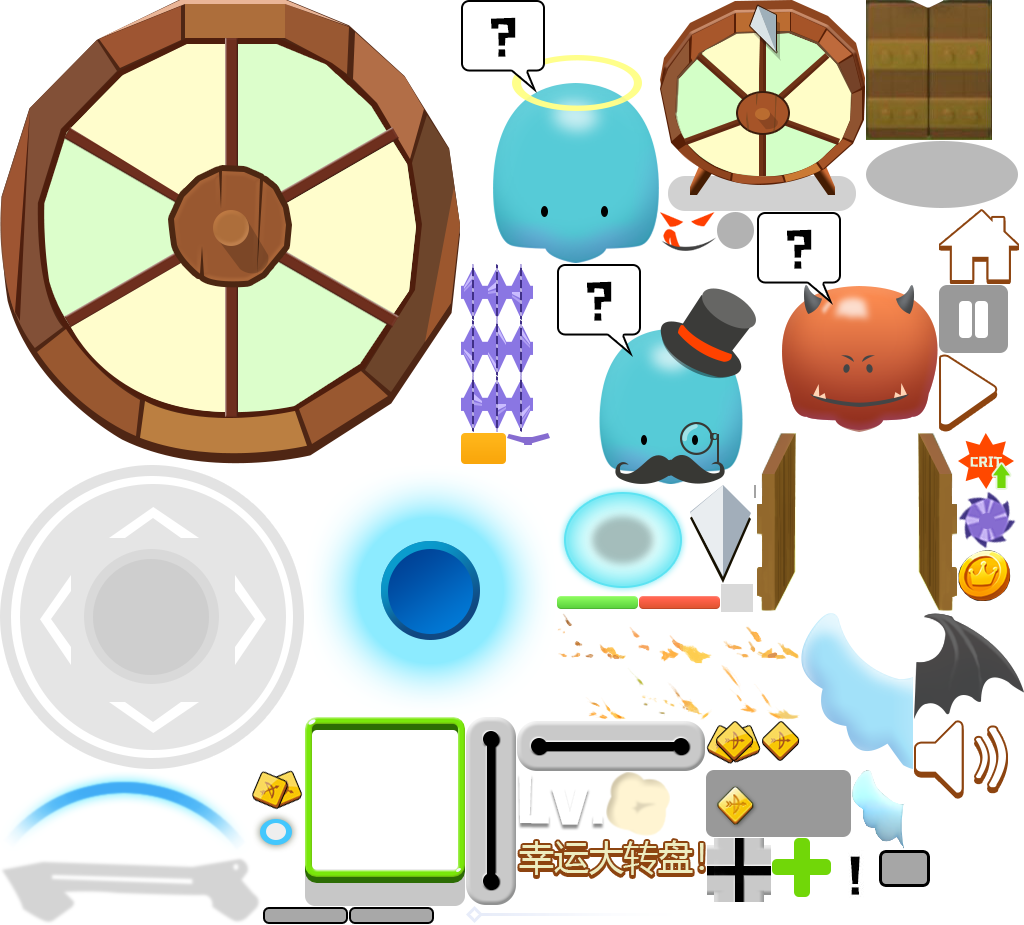
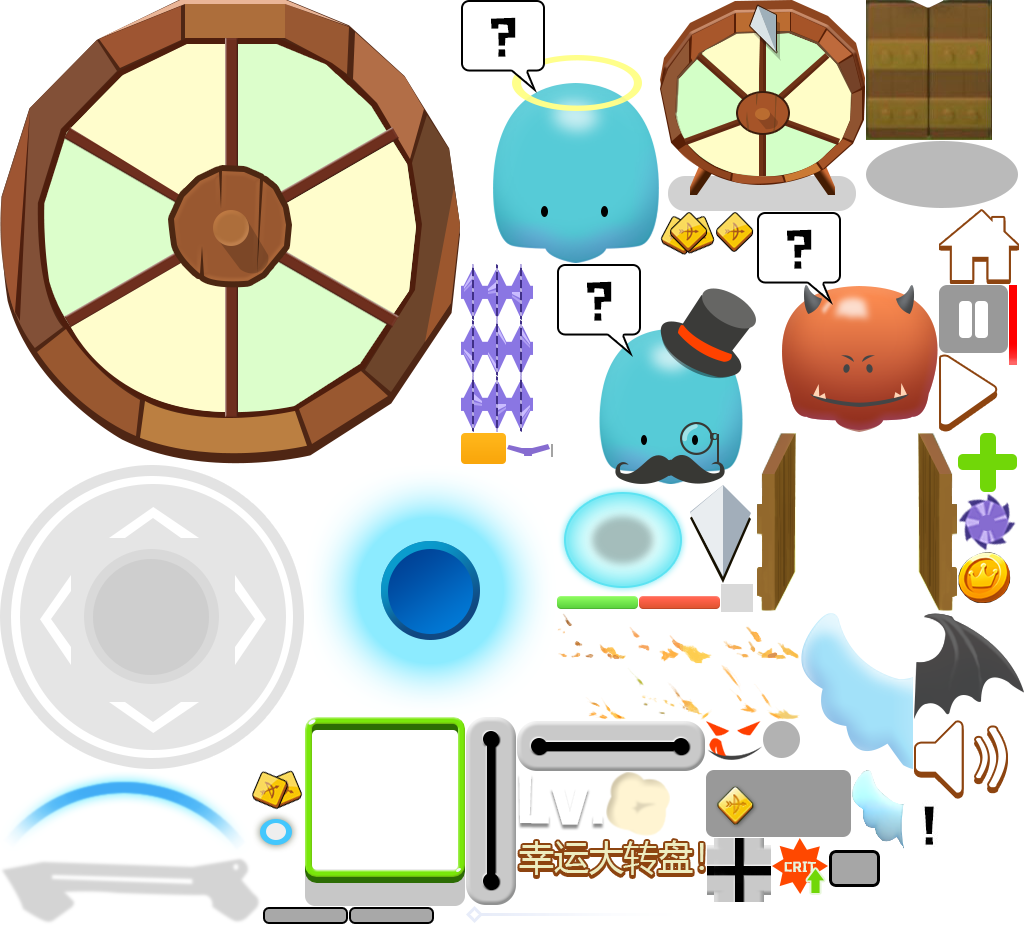
老总要的红条

diff --git a/Game3D01/src/game/move/ArrowGameMove0.ts b/Game3D01/src/game/move/ArrowGameMove0.ts
@@ -23,7 +23,7 @@ export default class ArrowGameMove0 extends GameMove {
     private vv = new MaoLineData(0, 0, 0, 1);
 
     /**反弹次数 */
-    private fcount: number = 0;
+    private fcount: number = 2;
 
     /**反弹起点 */
     private fv: MaoLineData = null;
@@ -71,7 +71,7 @@ export default class ArrowGameMove0 extends GameMove {
         if (enemy) {
             enemy.linkPro_.event(Game.Event_Hit, pro);
             if (!isChuantou)  {
-                pro.event(Game.Event_Hit, enemy.linkPro_);
+                // pro.event(Game.Event_Hit, enemy.linkPro_);
                 pro.die();
                 return false;
             }
@@ -87,7 +87,7 @@ export default class ArrowGameMove0 extends GameMove {
                 if (rs) {
                     enemy = rs[2];
                     enemy.linkPro_.event(Game.Event_Hit, pro);
-                    pro.event(Game.Event_Hit, enemy.linkPro_);
+                    // pro.event(Game.Event_Hit, enemy.linkPro_);
                     pro.die();
                     return false;
                 }
@@ -101,7 +101,7 @@ export default class ArrowGameMove0 extends GameMove {
                 if (rs) {
                     enemy = rs[2];
                     enemy.linkPro_.event(Game.Event_Hit, pro);
-                    pro.event(Game.Event_Hit, enemy.linkPro_);
+                    // pro.event(Game.Event_Hit, enemy.linkPro_);
                     pro.die();
                     return false;
                 }
@@ -150,72 +150,20 @@ export default class ArrowGameMove0 extends GameMove {
                 }
 
             }
+            // if (this.fcount <= 0) {
+            //     pro.die();
+            //     return false;
+            // } else {
+            //     this.fcount--;
+            //     this.fv = l;
+            //     return true;
+            // }
+            this.fcount--;
+            this.fv = l;
             if (this.fcount <= 0) {
                 pro.die();
                 return false;
-            } else {
-                this.fcount--;
-                this.fv = l;
-                return true;
             }
-        }
-        pro.setXY2D(pro.pos2.x + vx, pro.pos2.z + vz);
-
-        return true;
-    }
-
-    public move2d0(n: number, pro: GamePro, speed: number, hitStop: boolean): boolean {
-        //pro.rotation(n);
-        pro.setSpeed(speed);
-        if (pro.speed <= 0) return;
-
-        var vx: number = pro.speed * Math.cos(n);
-        var vz: number = pro.speed * Math.sin(n);
-        var x0: number = pro.hbox.cx;
-        var y0: number = pro.hbox.cy;
-        this.future.setVV(x0, y0, vx, vz);
-
-        var ebh: GameHitBox;
-        if (pro.gamedata.proType == GameProType.HeroArrow) {
-            ebh = Game.map0.chechHit_arr(this.future, Game.map0.Eharr);
-        } else {
-            ebh = Game.map0.chechHit_arr(this.future, Game.map0.Hharr);
-        }
-
-        if (ebh) {
-            pro.setXY2D(pro.pos2.x + vx, pro.pos2.z + vz);
-            pro.setSpeed(0);
-            if (ebh.linkPro_) {
-                ebh.linkPro_.event(Game.Event_Hit, pro);
-                pro.event(Game.Event_Hit, ebh.linkPro_);
-            }
-            return false;
-        }
-
-
-        var hits = Game.map0.Aharr;
-        ebh = Game.map0.chechHit_arr(this.future, hits);
-        if (ebh) {
-            if (pro.gamedata.bounce <= 0) {
-                pro.setXY2D(pro.pos2.x + vx, pro.pos2.z + vz);
-                pro.setSpeed(0);
-                pro.die();
-                //console.log("碰住地面了");
-                return false;
-            }
-            pro.gamedata.bounce--;
-            if (!Game.map0.chechHit_arr(this.future.setVV(x0, y0, -1 * vx, vz), hits)) {
-                vx = -1 * vx;
-                //this.fcount++;
-            } else if (!Game.map0.chechHit_arr(this.future.setVV(x0, y0, vx, -1 * vz), hits)) {
-                vz = -1 * vz;
-                //this.fcount++;
-            } else {
-                return false;
-            }
-            //this.facen2d_ = (2*Math.PI - n);
-            n = 2 * Math.PI - Math.atan2(vz, vx);
-            pro.rotation(n);
         }
         pro.setXY2D(pro.pos2.x + vx, pro.pos2.z + vz);
 

diff --git a/Game3D01/src/game/ai/BaseAi.ts b/Game3D01/src/game/ai/BaseAi.ts
@@ -97,24 +97,24 @@ export default class BaseAI extends GameAI {
             this.die();
         }
         else{
-            this.stiffTime = this.now;
-            if( this.g2 && this.g2.isOk()){//击退
-                var a: number = pro.face3d + Math.PI;
-                this.pro.rotation(a);
-                if(this.g2.starttime == 0 ){                        
-                    this.g2.starttime = this.now;//受击变形 击退
-                    this.g2.now = this.now;
-                    this.g2.playtime = 300;
-                }
-            }
+            // this.stiffTime = this.now;
+            // if( this.g2 && this.g2.isOk()){//击退
+            //     var a: number = pro.face3d + Math.PI;
+            //     this.pro.rotation(a);
+            //     if(this.g2.starttime == 0 ){                        
+            //         this.g2.starttime = this.now;//受击变形 击退
+            //         this.g2.now = this.now;
+            //         this.g2.playtime = 300;
+            //     }
+            // }
 
-            var ms = this.pro;
-            if (MonsterShader.map[ms.sysEnemy.enemymode]) {
-                var shader = <MonsterShader>MonsterShader.map[ms.sysEnemy.enemymode];
-                shader.setShader0(this.pro.sp3d, 1);
-                var now = Game.executor.getWorldNow();
-                this.shaders = now + 250;
-            }
+            // var ms = this.pro;
+            // if (MonsterShader.map[ms.sysEnemy.enemymode]) {
+            //     var shader = <MonsterShader>MonsterShader.map[ms.sysEnemy.enemymode];
+            //     shader.setShader0(this.pro.sp3d, 1);
+            //     var now = Game.executor.getWorldNow();
+            //     this.shaders = now + 250;
+            // }
         }
     }
 

diff --git a/Game3D01/src/main/scene/battle/BattleScene.ts b/Game3D01/src/main/scene/battle/BattleScene.ts
@@ -210,11 +210,11 @@ export default class BattleScene extends Laya.Sprite {
         Game.ro.resetPos();
         this.addChild(Game.ro);
 
-        Game.skillManager.addSkill(App.tableManager.getDataByNameAndId(SysSkill.NAME,1001));
-        Game.skillManager.addSkill(App.tableManager.getDataByNameAndId(SysSkill.NAME,1002));
-        Game.skillManager.addSkill(App.tableManager.getDataByNameAndId(SysSkill.NAME,1003));
-        Game.skillManager.addSkill(App.tableManager.getDataByNameAndId(SysSkill.NAME,1004));
-        Game.skillManager.addSkill(App.tableManager.getDataByNameAndId(SysSkill.NAME,1005));
+        // Game.skillManager.addSkill(App.tableManager.getDataByNameAndId(SysSkill.NAME,1001));
+        // Game.skillManager.addSkill(App.tableManager.getDataByNameAndId(SysSkill.NAME,1002));
+        // Game.skillManager.addSkill(App.tableManager.getDataByNameAndId(SysSkill.NAME,1003));
+        // Game.skillManager.addSkill(App.tableManager.getDataByNameAndId(SysSkill.NAME,1004));
+        // Game.skillManager.addSkill(App.tableManager.getDataByNameAndId(SysSkill.NAME,1005));
 
         // (<HeroAI>Game.hero.getGameAi()).run = false;
         Game.hero.init();

diff --git a/Game3D01/src/game/GameBG.ts b/Game3D01/src/game/GameBG.ts
@@ -409,6 +409,8 @@ export default class GameBG extends Laya.Sprite {
         this.doorNumber.visible = !this._bossImg.visible && Game.battleLoader.index > 0;
         this._door.pos(281,418);
 
+        
+
         Game.frontLayer.addChild(this._bottom);
         this._bottom.x = GameBG.ww2;
         this._bottom.skin = GameBG.BG_TYPE + "/bottom.png";
@@ -421,7 +423,13 @@ export default class GameBG extends Laya.Sprite {
         GameBG.cy = this.y;
         GameBG.mcx = ((GameBG.wnum + 1) * (GameBG.ww)) / 2 - GameBG.mw2;
         GameBG.mcy = (GameBG.hnum * GameBG.ww) / 2 - GameBG.mw2;
-
+        
+        // let redLine:Laya.Image = new Laya.Image();
+        // redLine.skin = "bg/hongtiao.png"
+        // Game.frontLayer.addChild(redLine);
+        // redLine.x = GameBG.ww * 5;
+        // redLine.y = GameBG.ww * 18;
+        // redLine.height = 500;
         if(this._npcAni)
         {
             Game.topLayer.addChild(this._npcAni);

diff --git a/Game3D01/src/game/ai/HeroAI.ts b/Game3D01/src/game/ai/HeroAI.ts
@@ -93,17 +93,17 @@ export default class HeroAI extends GameAI {
     public short(): void {
         var a: number = GameHitBox.faceTo3D(Game.hero.hbox, Game.e0_.hbox);
         Game.hero.rotation(a);
-        let moveSpeed: number = GameBG.ww / 2;
-        this.shootin.short_arrow(moveSpeed, Game.hero.face3d, Game.hero);
+        // let moveSpeed: number = GameBG.ww / 2;
+        // this.shootin.short_arrow(moveSpeed, Game.hero.face3d, Game.hero);
 
-        // this.onShoot();
+        this.onShoot();
 
-        // if (Game.skillManager.isHas(1005))  {
-        //     //连续射击
-        //     Laya.timer.frameOnce(20, this, () => {
-        //         this.onShoot();
-        //     });
-        // }
+        if (Game.skillManager.isHas(1005))  {
+            //连续射击
+            Laya.timer.frameOnce(20, this, () => {
+                this.onShoot();
+            });
+        }
     }
 
     private onShoot():void{

diff --git a/Game3D01/src/game/player/Hero.ts b/Game3D01/src/game/player/Hero.ts
@@ -19,6 +19,19 @@ export default class Hero extends GamePro {
         this.setGameAi(new HeroAI());
     }
 
+    addBlood(addValue:number):void
+    {
+        this.gamedata.hp = this.gamedata.hp + addValue;
+        this.gamedata.hp = Math.min(this.gamedata.hp,this.gamedata.maxhp);
+        this.initBlood(this.gamedata.hp);
+        console.log("回复血量");
+    }
+
+    private updateAttackSpeed():void
+    {
+        console.log("修改攻速");
+    }
+
     public reset():void
     {
         this.gamedata.hp = this.gamedata.maxhp = 2000;
@@ -55,6 +68,9 @@ export default class Hero extends GamePro {
                 Game.openDoor();
             }, 3000);
         }
+
+        Laya.stage.on(Game.Event_ADD_HP,this,this.addBlood);
+        Laya.stage.on(Game.Event_UPDATE_ATTACK_SPEED,this,this.updateAttackSpeed);
     }
 
     public isNew:boolean = true;

diff --git a/Game3D01/src/game/Game.ts b/Game3D01/src/game/Game.ts
@@ -38,6 +38,9 @@ export default class Game {
     static Event_Hit: string = "Game.Event_Hit";
     static Event_KeyNum: string = "Game.Event_KeyNum";
 
+    static Event_ADD_HP: string = "Event_ADD_HP";
+    static Event_UPDATE_ATTACK_SPEED: string = "Event_UPDATE_ATTACK_SPEED";
+
     static Event_NPC: string = "Event_NPC";
     static Event_COINS: string = "Event_COINS";
     static Event_EXP:string = "Event_EXP";

diff --git a/Game3D01/src/main/scene/battle/BattleLoader.ts b/Game3D01/src/main/scene/battle/BattleLoader.ts
@@ -93,7 +93,7 @@ export default class BattleLoader {
         // this._configId = 100101;//撞击
         // this._configId = 101001;//蓝色石头人boss
         // this._configId = 101002;//食人花boss
-        // this._configId = 100804;
+        this._configId = 100108;
         // this._configId = 104101//炸弹人
 
         console.log("当前地图", this._mapId, this._configId);

diff --git a/Game3D01/src/game/player/Monster.ts b/Game3D01/src/game/player/Monster.ts
@@ -125,6 +125,7 @@ export default class Monster extends GamePro {
         gpro.init();
         gpro.setSp3d(sp);
 
+
         if (sysEnemy.moveType > 0)  {
             var MOVE: any = Laya.ClassUtils.getClass(MoveType.TAG + sysEnemy.moveType);
             gpro.setGameMove(new MOVE());

diff --git a/Game3D01/src/game/GamePro.ts b/Game3D01/src/game/GamePro.ts
@@ -464,6 +464,10 @@ export default class GamePro extends Laya.EventDispatcher {
         if (index > -1) {
             Game.AiArr.splice(index, 1);
         }
+        else
+        {
+            console.error("为什么没有这个");
+        }
     }
 
 

diff --git a/Game3D01/src/main/scene/battle/SelectNewSkill.ts b/Game3D01/src/main/scene/battle/SelectNewSkill.ts
@@ -23,6 +23,7 @@ import SkillGrid from "./SkillGrid";
     private onClick(e:Laya.Event):void
     {
         let grid:SkillGrid = e.currentTarget as SkillGrid;
+        Game.skillManager.addSkill(grid.sys);
         this.removeSelf();
     }
 
